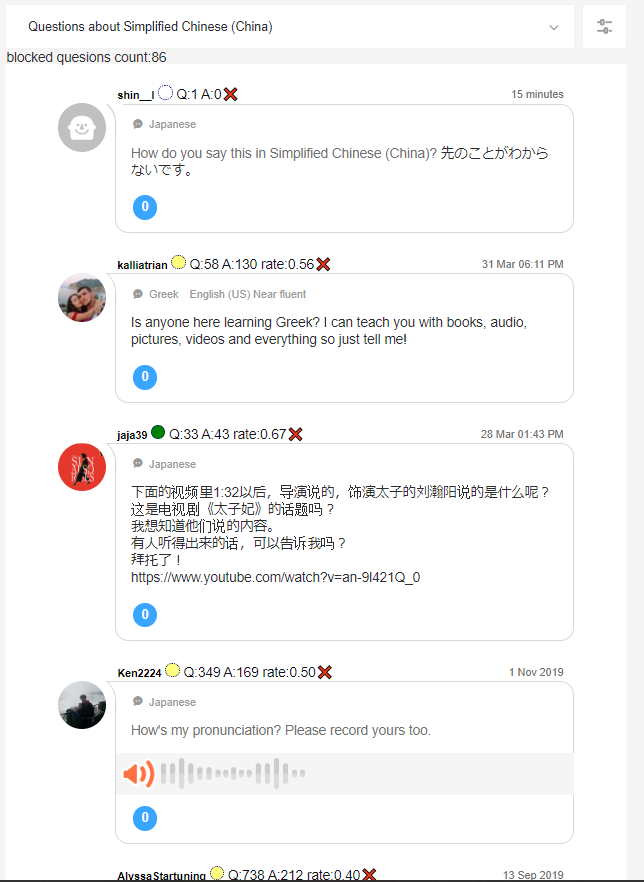
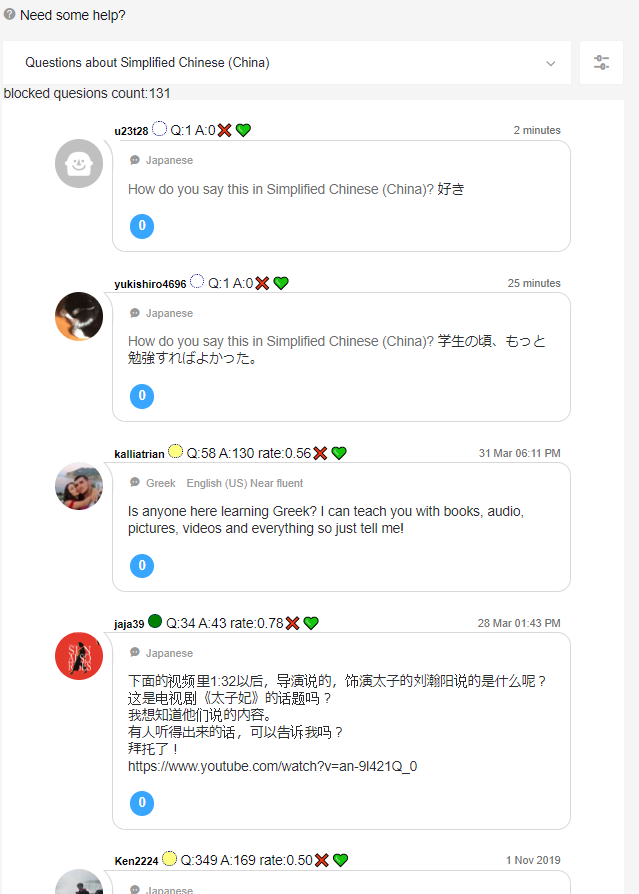
允许设置数据自动更新间隔

diff --git a/js/script.js b/js/script.js
@@ -64,17 +64,24 @@ function handler() {
                 return
             }
 
-            //如果该用户已经加载过了就不用了
+            //如果该用户没加载过,或者用户数据过期了就继续加载数据，否则重画
             if (typeof result_buffer[usr] === "undefined") {
                 //没有加载过就继续
                 log("usr not in buffer:" + usr)
             }
-            else {
-                //已经加载过了
-                //如果是新的方块则重新画一遍
-                do_painting(b_block, result_buffer[usr].txt)
-                return
+            else if (!(typeof validity_duration === "undefined")) {
+                let duration = (new Date().getTime() - result_buffer[usr].time) / 86400
+                log("validity_duration:" + validity_duration + "duration:" + duration)
+                if (duration >= validity_duration) {
+                    log(usr+" data expired!")
+                } else {
+                    //已经加载过了
+                    //如果是新的方块则重新画一遍
+                    do_painting(b_block, result_buffer[usr].txt)
+                    return
+                }
             }
+
             //发送请求
             let oReq = new XMLHttpRequest();
             oReq.addEventListener("load", function (evt) {
@@ -149,8 +156,6 @@ function update_result_buffer() {
             }
         }
         for (const usr of not_recording) {
-            // log("not caching new usr:" + usr)
-            // log(clone[usr])
             delete clone[usr]
         }
     }
@@ -270,9 +275,8 @@ function do_painting(ele) {
         a.click(function (e) {
             e.preventDefault()
             block_user(usr.text(), false)
-
             each_user_blocks(usr.text(), function () {
-                do_painting(ele)
+                do_painting(this)
             })
 
         })
@@ -334,8 +338,6 @@ function check_block(ele, why) {
         return false
 
     let usr = $(ele).find(".username")
-    // console.log("white_list:"+white_list)
-    // console.log("usr:"+usr)
     //如果在白名单里则不必屏蔽
     if (white_list.indexOf(usr.text()) >= 0) {
         return true
@@ -384,8 +386,7 @@ function get_user_info(p_url, usr) {
         let req = new XMLHttpRequest();
         req.addEventListener("load", function (evt1) {
             let txt = evt1.srcElement.response
-
-            let buffer = { info: get_paint_info(txt), profile_url: p_url1, usr: usr1 }
+            let buffer = { info: get_paint_info(txt), profile_url: p_url1, usr: usr1, time: new Date().getTime() }
             resolve(buffer)
             return
         })
@@ -449,6 +450,8 @@ function get_user_feartured_answer(p_url, buffer) {
 
                     //当所有的问题都加载完，统计结果，并添加到缓存中
                     if (blocks_count == buffer.answers) {
+                        //更新时间
+                        buffer.time = new Date().getTime()
                         log("usr:" + buffer.usr + " blocks_count:" + blocks_count + " buffer.answers:" + buffer.answers + " buffer.featured_answers:" + buffer.featured_answers)
                         resolve(buffer)
                         return

diff --git a/html/popup.html b/html/popup.html
@@ -35,7 +35,11 @@
       </tr>
       <tr>
         <td>Block rate:</td>
-        <td><input id="block_rate_below" type="range" title="Block rate below" min="0" max="1" step="0.1" /><br /></td>
+        <td><input id="block_rate_below" type="range" style="width: 120px;" title="Block rate below" min="0" max="1" step="0.1" /><br /></td>
+      </tr>
+      <tr>
+        <td>Data validity duration(d):</td>
+        <td><input id="validity_duration" type="number" style="text-align: right;width: 120px;"  min="0" step="1" pattern="\d*" title="interval of auto updateing data which has expired:" /><br /></td>
       </tr>
       <tr>
         <td> Clear cached data:</td>

diff --git a/js/background.js b/js/background.js
@@ -16,7 +16,7 @@ chrome.runtime.onInstalled.addListener(function () {
   });
 });
 
-// chrome.storage.local.set({"white_list":["hello"]})
+chrome.storage.local.set({"validity_duration":7})
 
 chrome.tabs.onUpdated.addListener(function (tabId, changeInfo, tab) {
 
@@ -28,6 +28,7 @@ chrome.tabs.onUpdated.addListener(function (tabId, changeInfo, tab) {
     "cache_new_users": false,
     "block_rate_below": 0.3,
     "show_log": false,
+    "validity_duration": 7,
     "blocked_users": [],
     "result_buffer": {},
     "white_list": []

diff --git a/js/popup.js b/js/popup.js
@@ -31,7 +31,7 @@ set_binding("need_featured_answer", $("#featured").get(0))
 set_binding("cache_new_users", $("#cache_new_users").get(0))
 set_binding("block_rate_below", $("#block_rate_below").get(0))
 set_binding("show_log", $("#show_log").get(0))
-
+set_binding("validity_duration", $("#validity_duration").get(0))
 binding_list("blocked_users", $("#blocked_users").get(0))
 binding_list("white_list", $("#white_list").get(0))
 
